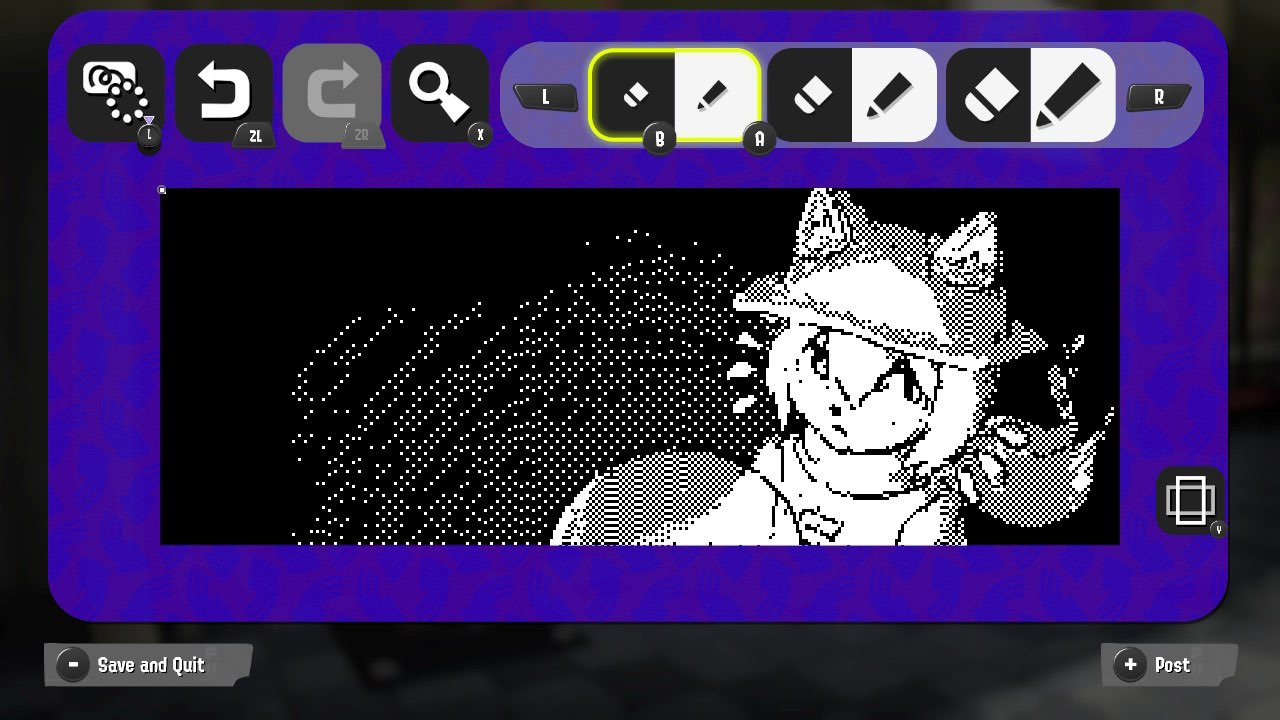
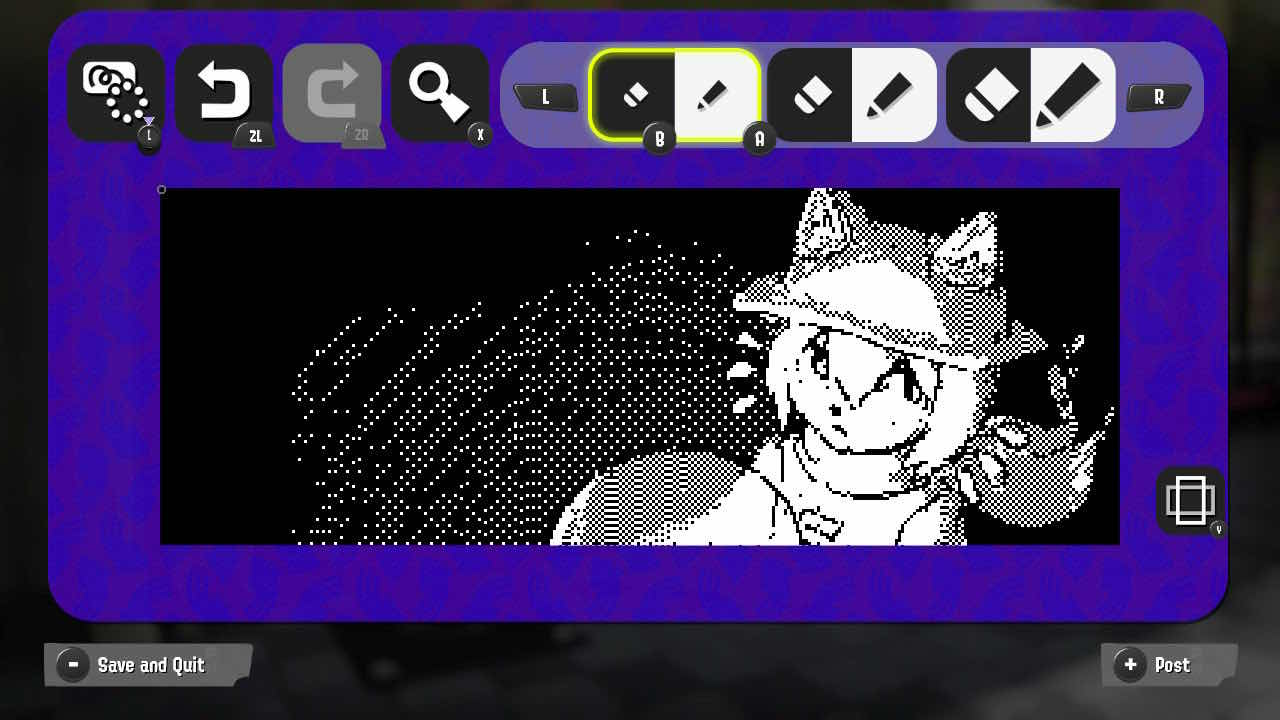
repairpost had flipped values whoops

diff --git a/img3splat/repairpost.py b/img3splat/repairpost.py
@@ -31,9 +31,6 @@ def procrepair(image):    #takes in 320x120 or screenshot, outputs 320x120 rotat
 
 
 def genrepairarray(main_ar, rpr_ar):    #generates repair array (proc_ar)
-    # use numpy masks? int array from 0-2, 0 is black (would be False), 1 is white (would be True), 2 is skip
-	# then make top left 2x2 (or top right once rotated i guess) pixels Skip (cursor blocks it)
-
     #create empty processed array (full of skip (2))
     proc_ar = np.full((320, 120), 2, dtype=int)
 
@@ -50,9 +47,9 @@ def genrepairarray(main_ar, rpr_ar):    #generates repair array (proc_ar)
     for index, x in np.ndenumerate(mask_ar):
         if x:
             if main_ar[index]:
-                proc_ar[index] = 1
-            else:
                 proc_ar[index] = 0
+            else:
+                proc_ar[index] = 1
 
     return proc_ar
 
